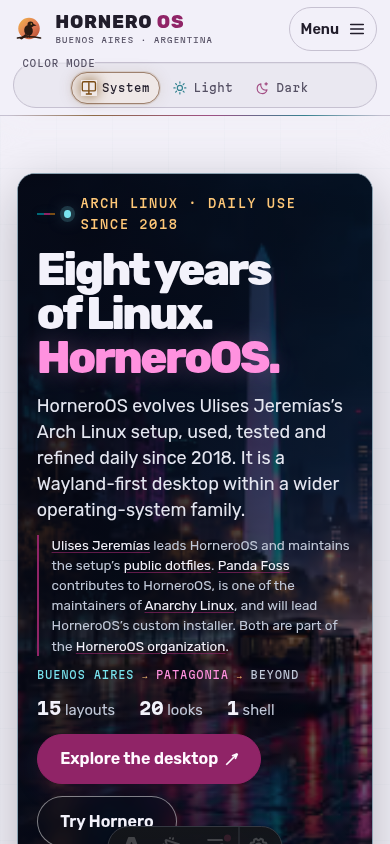
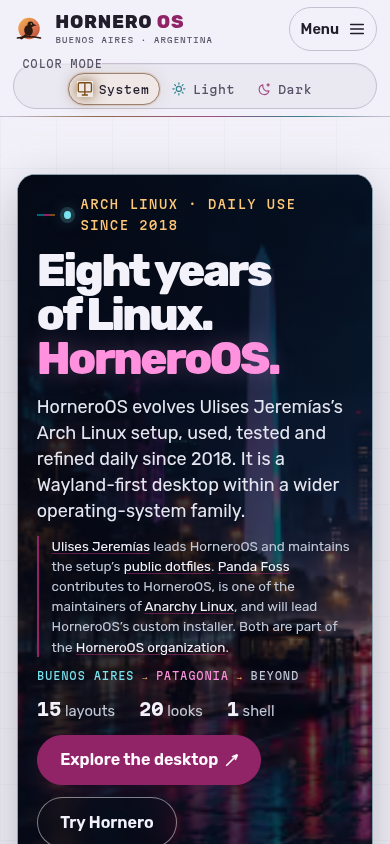
style(site): extend Buenos Aires signal across routes (#64)

diff --git a/src/styles/global.css b/src/styles/global.css
@@ -37,7 +37,10 @@
   --secondary: var(--sodium);
   --focus: #8cebf0;
   --browser-theme-color: #080b14;
-  --signal-grid: color-mix(in srgb, var(--river) 1.35%, transparent);
+  --signal-grid: color-mix(in srgb, var(--river) 2.1%, transparent);
+  --sign-haze: 18%;
+  --river-haze: 14%;
+  --sodium-haze: 10%;
   --ink: var(--text);
   --muted: var(--text-muted);
   --clay: var(--secondary);
@@ -73,7 +76,10 @@
   --secondary: #7a4b13;
   --focus: #005765;
   --browser-theme-color: #f2f0f8;
-  --signal-grid: color-mix(in srgb, var(--highlight) 1.55%, transparent);
+  --signal-grid: color-mix(in srgb, var(--highlight) 2.7%, transparent);
+  --sign-haze: 16%;
+  --river-haze: 14%;
+  --sodium-haze: 12%;
   --ink: var(--text);
   --muted: var(--text-muted);
   --clay: var(--secondary);
@@ -107,9 +113,21 @@ body {
   flex-direction: column;
   background-color: var(--bg);
   background-image:
-    radial-gradient(62rem 34rem at 92% -13%, color-mix(in srgb, var(--accent) 9%, transparent), transparent 70%),
-    radial-gradient(46rem 34rem at -18% 31%, color-mix(in srgb, var(--highlight) 6%, transparent), transparent 72%),
-    radial-gradient(42rem 24rem at 56% 104%, color-mix(in srgb, var(--secondary) 4%, transparent), transparent 72%),
+    radial-gradient(
+      62rem 34rem at 96% -8%,
+      color-mix(in srgb, var(--accent) var(--sign-haze), transparent),
+      transparent 84%
+    ),
+    radial-gradient(
+      46rem 34rem at -12% 34%,
+      color-mix(in srgb, var(--highlight) var(--river-haze), transparent),
+      transparent 84%
+    ),
+    radial-gradient(
+      42rem 24rem at 62% 108%,
+      color-mix(in srgb, var(--secondary) var(--sodium-haze), transparent),
+      transparent 82%
+    ),
     linear-gradient(var(--signal-grid) 1px, transparent 1px),
     linear-gradient(90deg, var(--signal-grid) 1px, transparent 1px);
   background-size:
@@ -455,7 +473,7 @@ hr {
   flex: none;
   margin-inline: 0.35rem 0.15rem;
   color: var(--text-muted);
-  font: 0.6rem var(--font-data);
+  font: 0.66rem var(--font-data);
   letter-spacing: 0.06em;
   text-transform: uppercase;
 }
@@ -468,7 +486,7 @@ hr {
   border-radius: 999px;
   color: var(--text-muted);
   cursor: pointer;
-  font: 0.7rem var(--font-data);
+  font: 0.74rem var(--font-data);
   letter-spacing: 0.015em;
 }
 

diff --git a/docs/COMPONENTS_AND_STYLING.md b/docs/COMPONENTS_AND_STYLING.md
@@ -1,7 +1,11 @@
 # Components and styling
 
 The website is built with Astro components and plain CSS. Most routes render
-to static HTML and need no client-side framework.
+to static HTML and need no client-side framework. Its visual language draws
+from Buenos Aires after rain and the southern blue hour: city-grid lines,
+river cyan, electric-sign magenta and sodium amber carry through the shared
+canvas and navigation, while real Hornero captures provide the strongest
+visual statements.
 
 ## Component boundaries
 
@@ -23,15 +27,18 @@ page-specific composition with its route.
 `src/styles/global.css` defines the shared role tokens used across the site:
 canvas, surface, line, text, muted text, accent, highlight, secondary and
 focus. The palette is a cyberpunk interpretation of Buenos Aires: night ink,
-river cyan, electric-sign magenta and sodium amber. Light mode carries those
-signals over a mineral daylight canvas. A scene may use local overlay tokens
-when text must remain legible over artwork; do not replace role tokens with
-ad-hoc colors across ordinary UI.
+river cyan, electric-sign magenta and sodium amber. The page-wide urban grid
+and atmospheric color fields use those same tokens, so informational routes
+keep the product identity without placing decoration over their reading
+surfaces. Light mode carries the same signals over mineral daylight. A scene
+may use local overlay tokens when text must remain legible over artwork; do
+not replace role tokens with ad-hoc colors across ordinary UI.
 
-The `SiteLayout` control exposes System, Light and Dark. System follows
-`prefers-color-scheme`; explicit choices persist in local storage and sync
-across tabs. Keep all three options keyboard accessible, visibly focused and
-available in desktop and mobile navigation. Respect reduced motion.
+The `SiteLayout` control exposes System, Light and Dark on every route.
+System follows `prefers-color-scheme`; explicit choices persist in local
+storage and sync across tabs. Keep all three options keyboard accessible,
+visibly focused and available in desktop and mobile navigation. Respect
+reduced motion and preserve readable contrast in both palettes.
 
 Rubik is the UI/display face and Martian Mono is reserved for provenance and
 data. Both are self-hosted through Fontsource packages.

diff --git a/.github/evidence/color-mode-signals/README.md b/.github/evidence/color-mode-signals/README.md
@@ -1,12 +1,17 @@
 # Cyberpunk Argentina color-mode review
 
-Captured from the local static website with headless Chromium on 2026-10-11.
-The shared selector uses the Hornero signal palette to distinguish System,
-Light and Dark while keeping the Buenos Aires night artwork consistent.
+Captured from the production static build with headless Chromium on
+2026-10-11. The site-wide city grid and Buenos Aires signal colors carry
+through informational pages, while the home page keeps its original night
+scene in either mode.
 
 - `homepage-dark.png` — 1440×1000, Dark mode on the home page.
 - `themes-light.png` — 1440×1000, Light mode on the Themes page.
-- `homepage-mobile.png` — 390×844, System mode on the home page.
+- `homepage-mobile.png` — 390×844, System mode on the home page with the
+  emulated system preference set to Light.
 
-These show the website, not HorneroOS desktop captures. Product media retains
-its own capture provenance in the rendered pages.
+Browser checks exercised all three options with pointer and keyboard input,
+verified saved preference after reload, and confirmed System follows a
+mid-session `prefers-color-scheme` change. The mobile page had no horizontal
+overflow. These show the website, not HorneroOS desktop captures. Product
+media retains its own capture provenance in the rendered pages.
